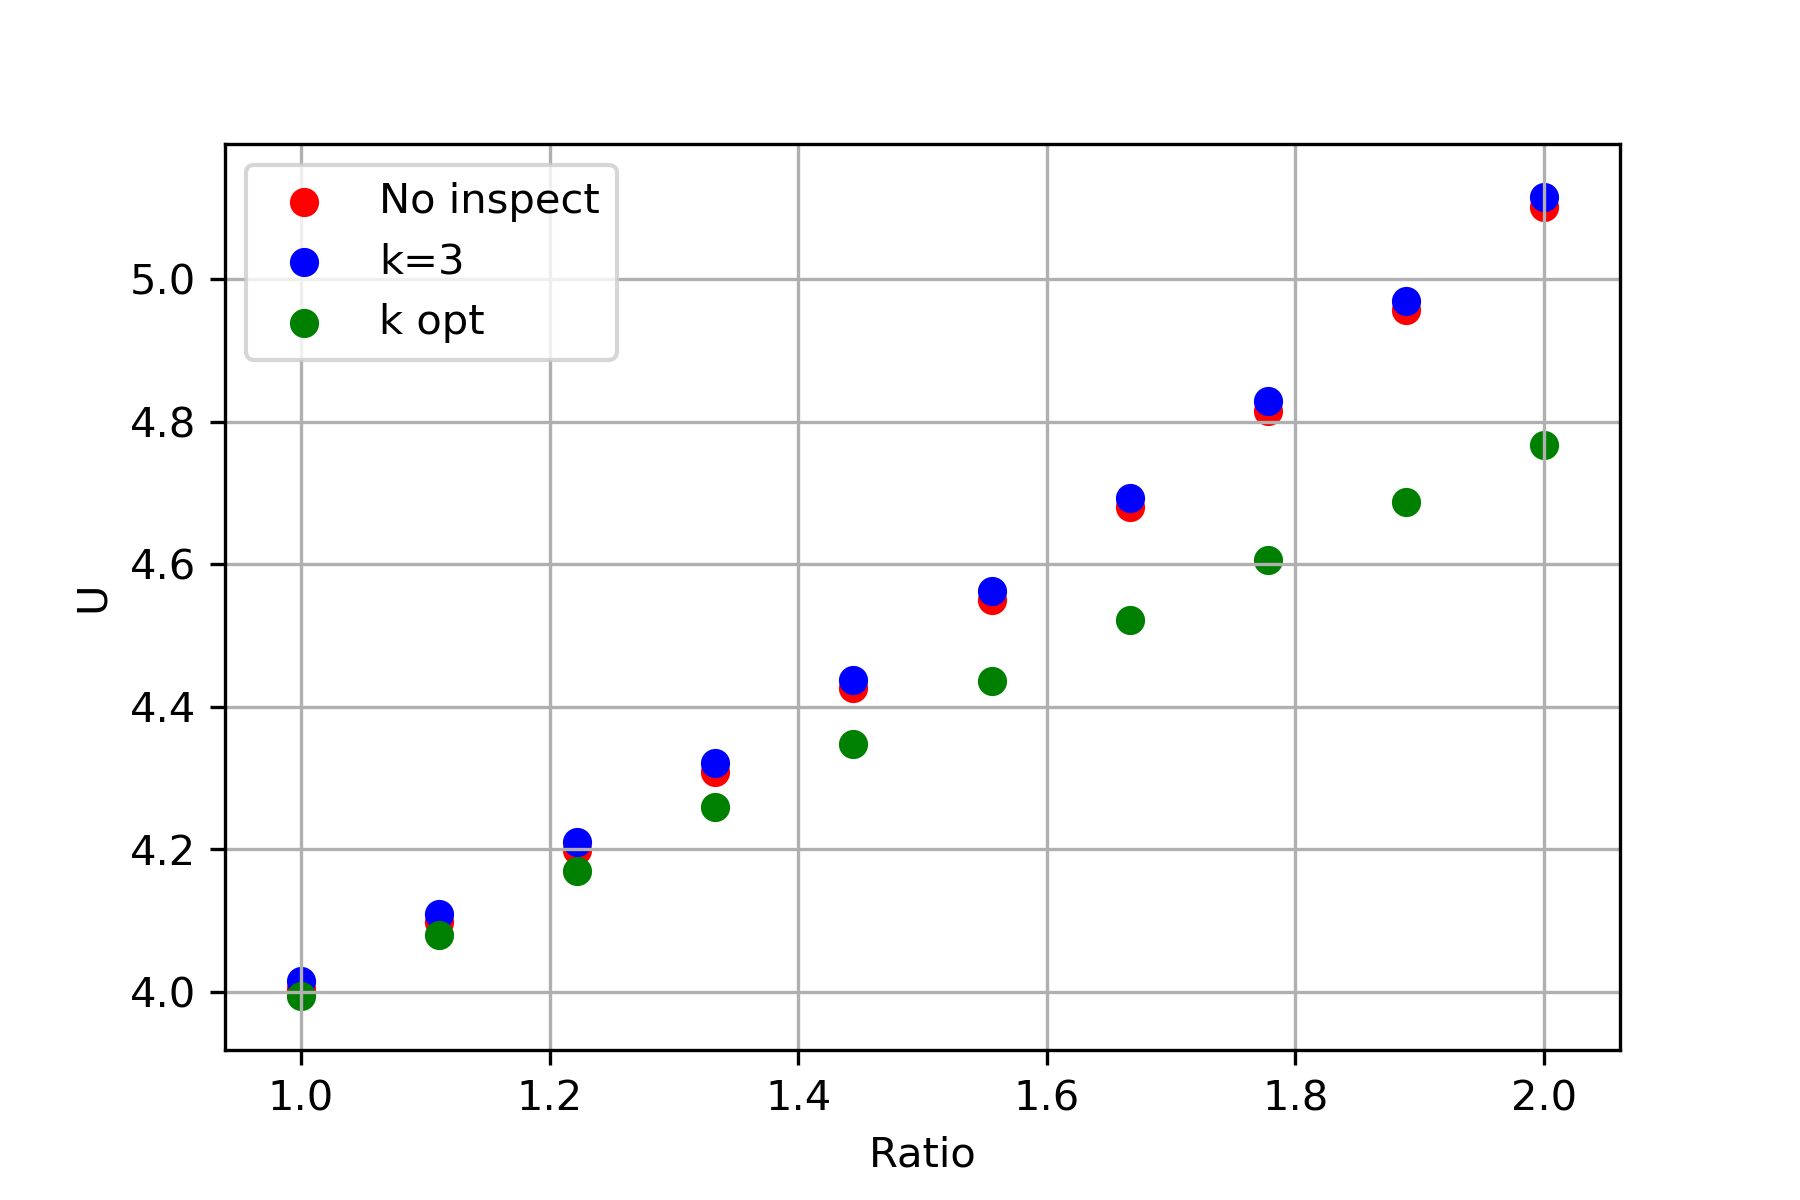
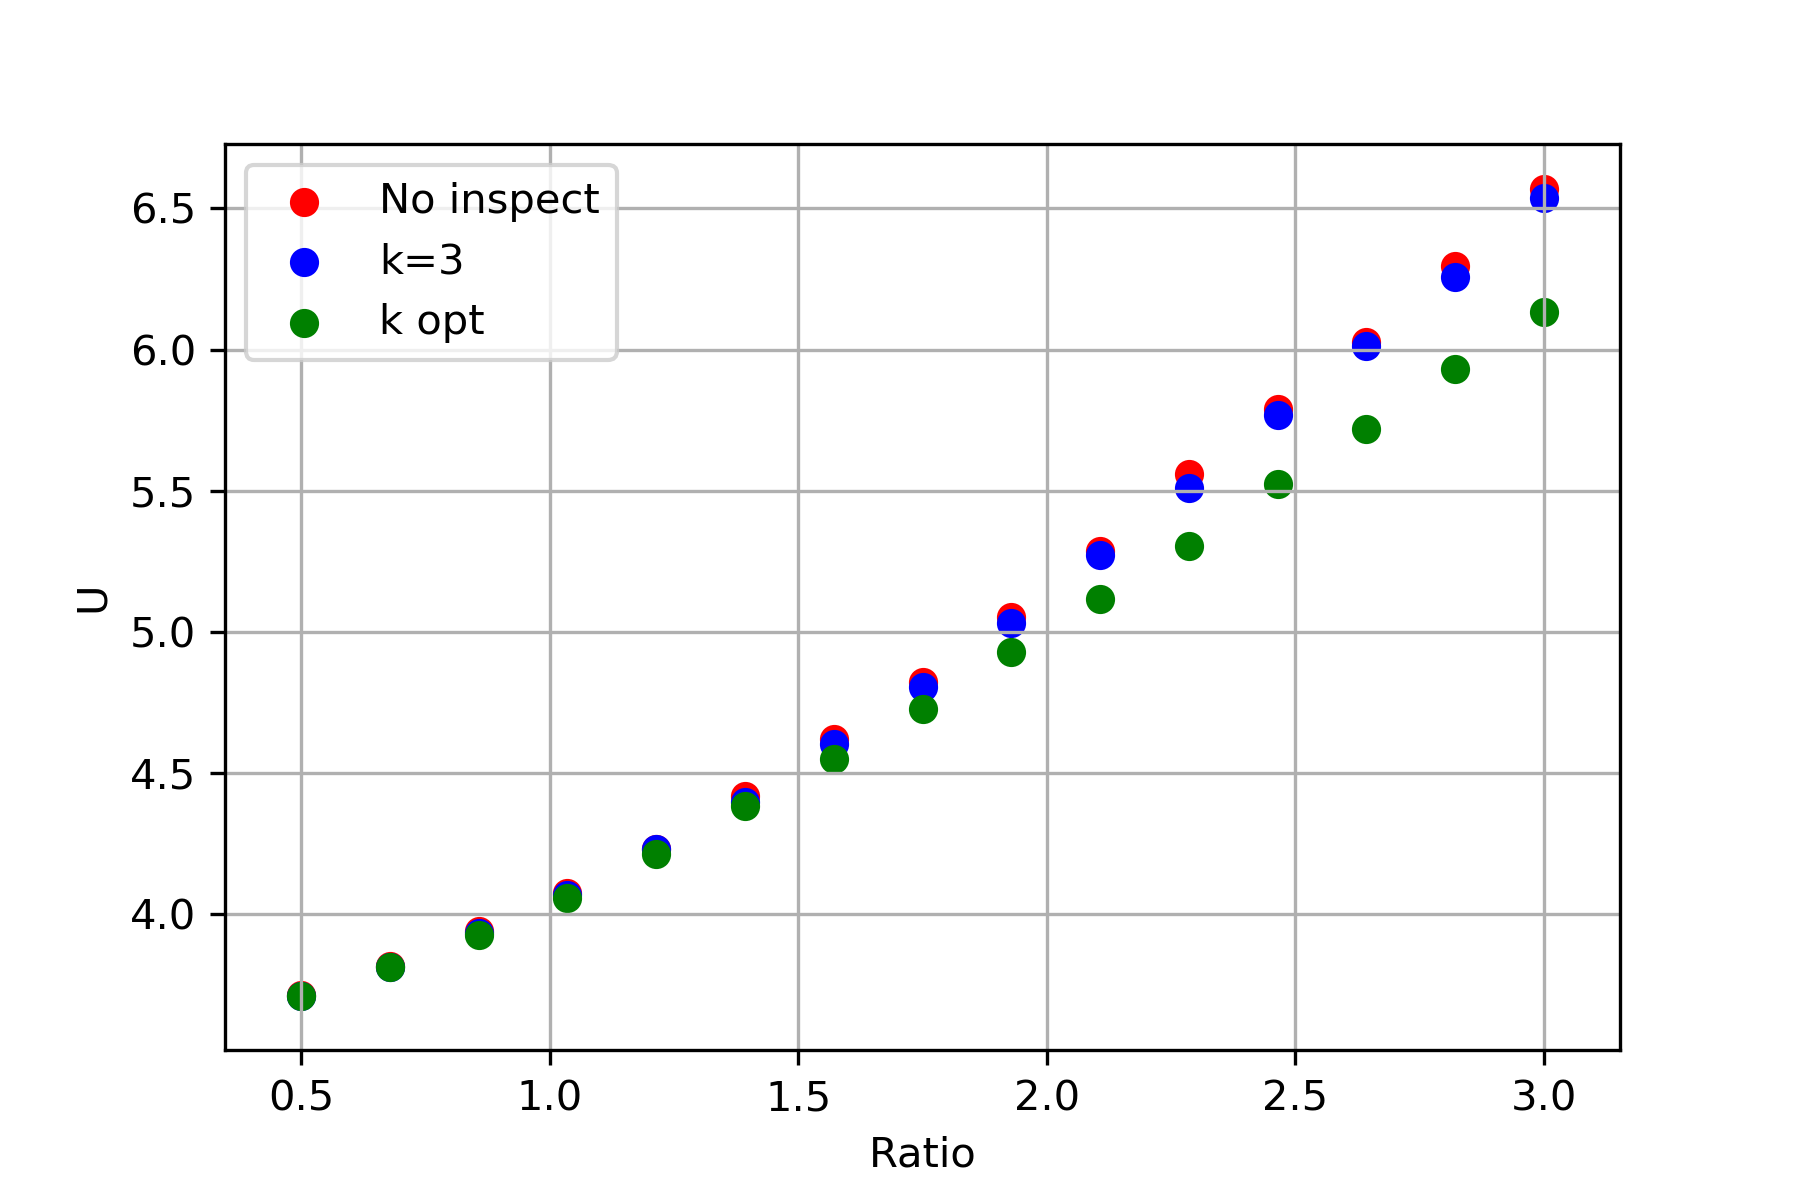
Modify truncated normal distribution

diff --git a/helpers.py b/helpers.py
@@ -28,15 +28,45 @@ c = 1.09
 b = 1 + 1/np.exp(a*c)
 d = -1/np.exp(a*c)
 
-def h(x,a,b,c,d):
-    #return np.divide(2*np.ones_like(x),1+np.exp(-1*a*x)) - 1  
-    return np.divide(b*np.ones_like(x),1+np.exp(-a*(x-c)))+d
+def W(k):
+  #return np.divide(1,1-2*norm.cdf(-k))
+  return np.divide(1,erf(k/np.sqrt(2)))
 
-def dh_dx(x,a,b,c,d):
-    #tem = np.exp(-1*a*x)
-    #v = np.divide(2*a*tem,np.power(1+tem,2))
-    tem = np.exp(-1*a*x+a*c)
+def phi(k):
+  return np.divide(np.exp(-np.power(k,2)/2),np.sqrt(2*np.pi))
+
+def h(k,a,b,c,d):
+    '''
+    ##This is the fitting method
+    return np.divide(b*np.ones_like(k),1+np.exp(-a*(k-c)))+d
+    '''
+    
+    
+    ##Method from SPC book
+    return np.sqrt(1+2*W(k)*(-k)*phi(-k))
+    
+
+
+def dh_dx(k,a,b,c,d):
+    '''
+    ##This is the fitting method
+    tem = np.exp(-1*a*k+a*c)
     return b*a*np.multiply(np.power(1+tem,-2),tem)
+    '''
+    
+    
+    ## Method from SPC book
+    phik = phi(-k)
+    erfkoversqr2 = erf(np.divide(k,np.sqrt(2)))
+    tm1 = np.multiply(2*k,phik)
+    term1 = -np.power(1-np.divide(tm1,erfkoversqr2),-0.5)
+    
+    tm2 = np.multiply(erfkoversqr2 , np.multiply(phik,1-np.power(k,2)))
+    tm3 = -np.multiply(np.multiply(np.divide(k,np.sqrt(2)),phik), derf_dx(np.divide(k,np.sqrt(2)),n))       
+    term2 = np.divide(tm2+tm3,np.power(erfkoversqr2,2))
+    
+    return term1*term2
+    
     
   
 #SigmaY 
@@ -88,7 +118,6 @@ def sigma(E,F,r):
     return np.add(E,np.multiply(F,np.power(r,2)))
 
 #Approximat the deriative of an error function. The error function is approximated
-#by a 7th order power series expansion for the error function
 def derf_dx(x,n):
     #return (1.0-x**2+x**4/2.0-x**6/6.0)*2.0/math.sqrt(math.pi)
     val = 0
@@ -246,6 +275,9 @@ def U_inspect_simulation(NSample,r,A,B,E,F,k,miuX,USY,miuY,Sp,Sc):
     Np = np.abs(N - NSample)
     #Process cost of components
     Cp = C(A,B,r)
+    np.random.shuffle(X1_satis)
+    np.random.shuffle(X2_satis)
+    np.random.shuffle(X3_satis)
     X = np.array([X1_satis,X2_satis,X3_satis])
     Y = assembly(X)
     Y = Y[np.logical_and(Y>=2*miuY-USY,Y<=USY)]
@@ -262,11 +294,14 @@ def U_noinspect_simulation(NSample,r,A,B,E,F,miuX,USY,miuY,Sp,Sc):
     X3 = np.random.normal(miuX[2], sigmaX[2], NSample)
     #Process cost of components
     Cp = C(A,B,r)
+    np.random.shuffle(X1)
+    np.random.shuffle(X2)
+    np.random.shuffle(X3)    
     X = np.array([X1,X2,X3])
     Y = assembly(X)
     Y = Y[np.logical_and(Y>=2*miuY-USY,Y<=USY)]    
     #Total cost 
-    Ct = np.sum(NSample*Cp) + Sp*(NSample-len(Y))
+    Ct = np.sum(np.multiply(NSample,Cp)) + Sp*(np.abs(NSample-len(Y)))
     U = Ct/len(Y)
     return U    
 
@@ -285,6 +320,9 @@ def estimateNandM(miuX,E,F,r,k,NSample,USY,miuY,scenario):
         (X2,N2) = produce_satisfactory_output(miuX[1], sigmaX[1], NSample, tol[1])
         (X3,N3) = produce_satisfactory_output(miuX[2], sigmaX[2], NSample, tol[2]) 
     N = np.array([N1,N2,N3])
+    np.random.shuffle(X1)
+    np.random.shuffle(X2)
+    np.random.shuffle(X3)
     X = np.array([X1,X2,X3])
     Y = assembly(X)
     Y = Y[np.logical_and(Y>=2*miuY-USY,Y<=USY)]    
@@ -334,7 +372,7 @@ def plotsatisfactoryrateandk(gammas,betas,ratio,kopt):
     ax1.grid(True)    
     plt.show()    
     fig.savefig(fname='satisfactionrate',dpi=300)
-    fig.savefig('3dPlot.tif')    
+    #fig.savefig('3dPlot.tif')    
     
 def scatterplot(x,y,xlabel,ylabel,save=False,filename='scatterplot'):
     fig, ax1 = plt.subplots()
@@ -345,13 +383,13 @@ def scatterplot(x,y,xlabel,ylabel,save=False,filename='scatterplot'):
     #ax1.legend()
     ax1.grid(True)
     plt.show()     
-    fig.savefig(fname='cost',dpi=300)    
+    fig.savefig(fname=filename,dpi=300)    
     
 def plotU(xaxis):
     df=pd.read_excel("U.xlsx",sheet_name='sheet1')
-    nonins_Up = df['noinspect_U']
-    ins_Up = df['inspect_U_fixk']
-    inspect_Up = df['inspect_U']
+    nonins_Up = df['noinspect_Up']
+    ins_Up = df['inspect_Up_fixk']
+    inspect_Up = df['inspect_Up']
     
     fig, ax1 = plt.subplots()
     ax1.scatter(xaxis, nonins_Up, label="No inspect", color='r' )

diff --git a/main.py b/main.py
@@ -40,7 +40,7 @@ INSPECTFIXK = 2
 INSPECT = 3
 
 
-scenario =  INSPECTFIXK
+scenario =  INSPECT
 
 
 ####Hub Roller Cage
@@ -175,7 +175,7 @@ def optimize(prnt,para):
     if scenario == INSPECT: #Scrap
         opt = nlopt.opt(nlopt.LD_MMA, 2*m) # MMA (Method of Moving Asymptotes) and CCSA LD_MMA
         #ubK = 10.0
-        #opt.set_lower_bounds([smallvalue,smallvalue,smallvalue,lbK,lbK,lbK])
+        opt.set_lower_bounds([smallvalue,smallvalue,smallvalue,smallvalue,smallvalue,smallvalue])
         #opt.set_upper_bounds([largevalue,largevalue,largevalue,5,5,5])
         opt.set_min_objective(lambda x,grad: obj_nlopt_inspect(x,grad,para))
         #opt.set_min_objective(obj_nlopt_inspect)
@@ -211,7 +211,7 @@ def optimize(prnt,para):
     
     elif scenario == INSPECTFIXK:
         opt = nlopt.opt(nlopt.LD_MMA, m) # MMA (Method of Moving Asymptotes) and CCSA LD_MMA
-        #opt.set_lower_bounds([smallvalue,smallvalue,smallvalue])
+        opt.set_lower_bounds([smallvalue,smallvalue,smallvalue])
         #opt.set_upper_bounds([largevalue,largevalue,largevalue,5,5,5])
         opt.set_min_objective(lambda x,grad: obj_nlopt_inspect_fixk(x,grad,para))
         opt.set_xtol_rel(1e-4)
@@ -277,7 +277,7 @@ def comparetwoscenarios(ratio):
         #Average the results
         U = 0
         Up = 0
-        aveN = 5
+        aveN = 10
         for i in range(aveN):
             result = optimize(False,para)
             U += result['U']
@@ -434,18 +434,18 @@ def CIRP():
 #plotC(A,B,np.arange(1,10,0.1))
 #plotsigma(E,F,np.arange(1,10,0.1))
     
-casestudy_U()
-CIRP()
+#casestudy_U()
+#CIRP()
 
-ratio = np.linspace(0.5,2.0,15)
-error = computeerror(scenario,ratio)
-print(error)
-hp.scatterplot(ratio,error,'ratio','error%',save=False,filename='scatterplot') 
+#ratio = np.linspace(0.5,2.0,15)
+#error = computeerror(scenario,ratio)
+#print(error)
+#hp.scatterplot(ratio,error,'ratio','error%',save=False,filename='errorplot') 
 
-#ratio = np.linspace(1,2,10)
-#resultlist = comparetwoscenarios(ratio)   
-#writetofile_U(resultlist)  
-#hp.plotU(ratio)
+ratio = np.linspace(0.5,3,15)
+resultlist = comparetwoscenarios(ratio)   
+writetofile_U(resultlist)  
+hp.plotU(ratio)
 print('done')
 
 #comparesatisfactionrateandk(ratio,scenario)

diff --git a/truncatenormal.py b/truncatenormal.py
@@ -8,13 +8,13 @@ Created on Tue Sep 10 21:53:59 2019
 import numpy as np
 import matplotlib.pyplot as plt
 from scipy.special import erf
-
+from scipy.stats import norm 
 
 N = 10000
 averagetime = 30
+originalsigma = 1
 
-
-krange = np.arange(2,4,0.001)
+krange = np.arange(0.1,4,0.001)
 
 
 
@@ -36,28 +36,41 @@ sigmoidvshift = sigmoidshift(krange,a,b,c,d)
 def sigmapsimulation(k):
     sigmap = 0
     for i in np.arange(1,averagetime+1):
-        sample = np.random.normal(0,1,N)
+        sample = np.random.normal(0,originalsigma,N)
         sampletruncate = sample[np.logical_and(sample>(-k),sample<k)]
         sigmap += np.std(sampletruncate)
     stdp =  sigmap/averagetime  
     return stdp
 
+def W(k):
+  #return np.divide(1,1-2*norm.cdf(-k))
+  return np.divide(1,erf(k/np.sqrt(2)))
+
+def phi(k):
+  return np.divide(np.exp(-np.power(k,2)/2),np.sqrt(2*np.pi))
+
+def spcbook(k):
+  return np.sqrt(1+2*W(k)*(-k)*phi(-k))
+
 def draw(krange):
     sigmapvec = np.zeros_like(krange)
     for index, k in enumerate(krange):
         sigmap = 0
+        dev = k*originalsigma
         for i in np.arange(1,averagetime+1):
-            sample = np.random.normal(0,1,N)
-            sampletruncate = sample[np.logical_and(sample>(-k),sample<k)]
-            sigmap += np.std(sampletruncate)
+            sample = np.random.normal(0,originalsigma,N)
+            sampletruncate = sample[np.logical_and(sample>(-dev),sample<dev)]
+            sigmap += np.std(sampletruncate)/originalsigma
         sigmapvec[index] = sigmap/averagetime
     
     
     fig, ax1 = plt.subplots()
-    ax1.scatter(krange, sigmapvec, s=0.1, label="k curve", color='r' )
+    ax1.scatter(krange, sigmapvec, s=5, label="k curve", color='r' )
     ax1.scatter(krange, sigmoidvshift, s=0.1, label="sigmoid", color='g' )
     #ax1.scatter(krange, erf(krange/np.sqrt(2)), s=0.1, label="error function", color='b' )
     #ax1.scatter(krange, np.tanh(krange), s=0.1, label="tanh", color='y' )
+    spcbookks = spcbook(krange)
+    ax1.scatter(krange, spcbookks, s=0.1, label="spcK", color='y' )
     ax1.set_ylabel('sigmap') 
     ax1.set_xlabel('k')
     ax1.legend()
@@ -81,4 +94,5 @@ def plothist(sample):
 #plothist(sample)
 
 draw(krange)
+
 

diff --git a/Test/test.py b/Test/test.py
@@ -8,7 +8,4 @@
 # from pandas import DataFrame
 # =============================================================================
 
-import pandas as pd
 
-df=pd.read_excel("Test.xlsx",sheet_name='sheet1')
-print(df['noinspect_U'][0])
